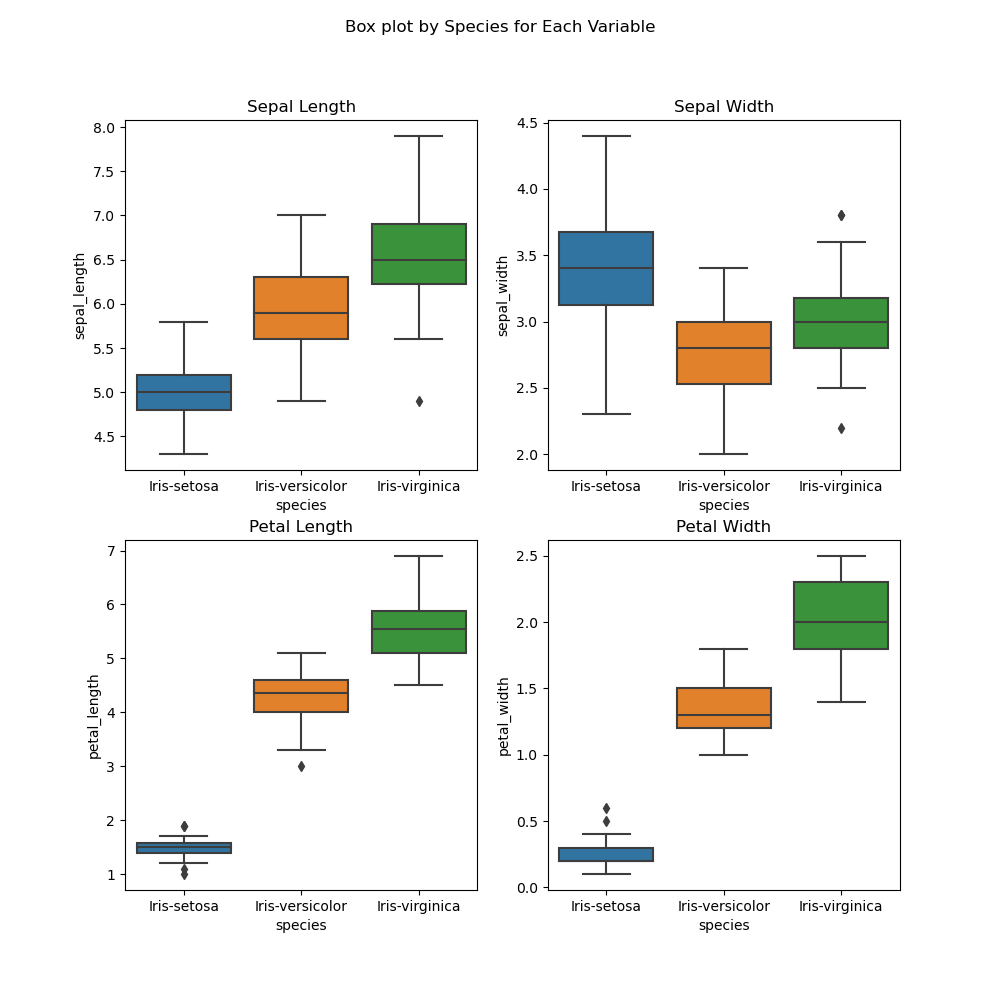
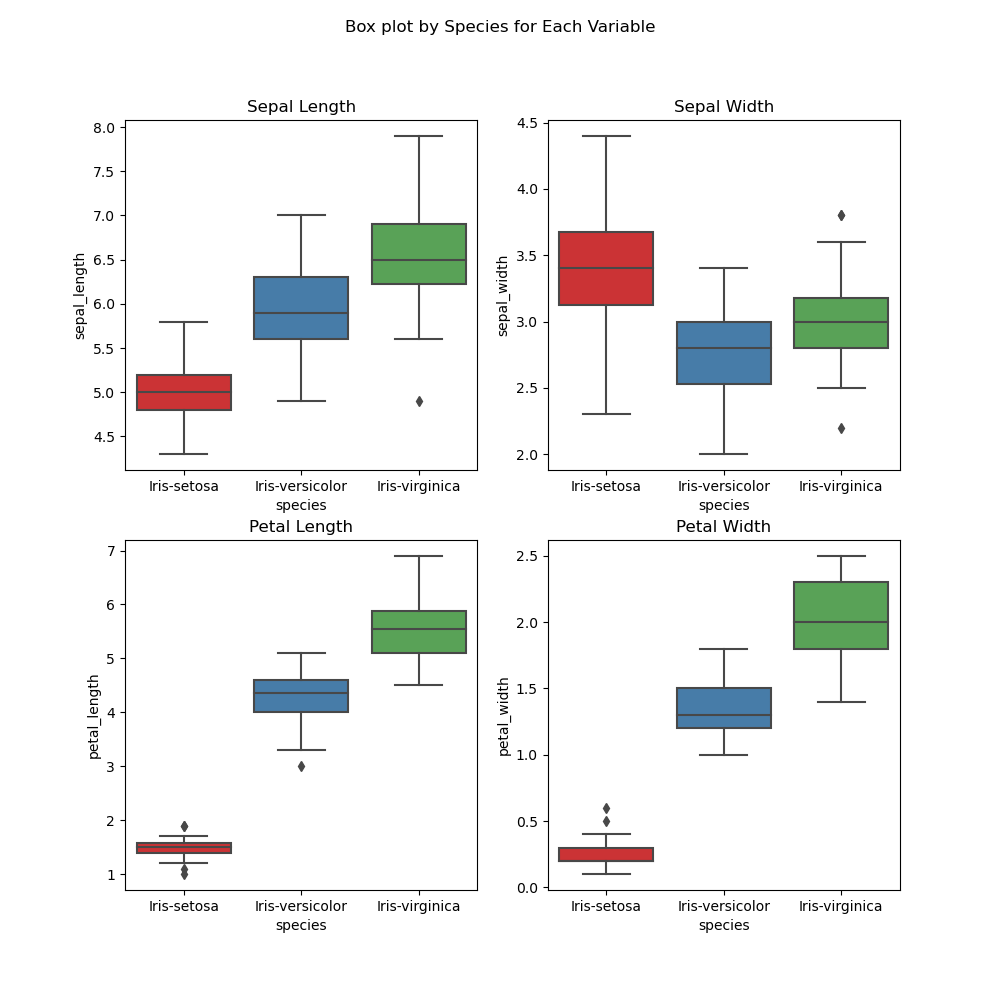
change seaborn palette

diff --git a/analysis.py b/analysis.py
@@ -63,12 +63,14 @@ with open('analysis.txt', 'a') as f:
     f.write(versicolor_summary)
     f.write(virginica_summary)
 
+sns.set_palette("Set1")
+
 # Comparing summary statistics across the three species.
 fig, axes = plt.subplots(2,2, figsize = (10, 10))
 sns.boxplot(ax = axes[0, 0], x = 'species', y = 'sepal_length', data = iris)
-sns.boxplot(ax = axes[0, 1], x = iris['species'], y= iris['sepal_width'])
-sns.boxplot(ax = axes[1, 0], x = iris['species'], y = iris['petal_length'])
-sns.boxplot(ax = axes[1, 1], x = iris['species'], y = iris['petal_width'])
+sns.boxplot(ax = axes[0, 1], x = 'species', y= 'sepal_width', data = iris)
+sns.boxplot(ax = axes[1, 0], x = 'species', y = 'petal_length', data = iris)
+sns.boxplot(ax = axes[1, 1], x = 'species', y = 'petal_width', data = iris)
 plt.suptitle('Box plot by Species for Each Variable')
 axes[0,0].set_title('Sepal Length')
 axes[0,1].set_title('Sepal Width')
@@ -80,14 +82,17 @@ plt.close()
 #### Histogram #####
 
 # Save a histogram of each variable to png files
-for col in iris:
-    sns.set_palette("Set1")
-    sns.histplot(x = col, data = iris, hue = 'species')
-    plt.title(f"Histogram of {col.title().replace('_', ' ')}")
-    plt.xlabel(f"{col.replace('_', ' ')}")
-    plt.savefig(f'C:\\Users\\Martin\\Desktop\\pands\\pands-project\\plots\\Histogram_of_{col}.png')
-    #plt.show()
-    plt.close()
+def plot_hist(df):
+    for col in df:
+        #sns.set_palette("Set1")
+        sns.histplot(x = col, data = df, hue = 'species')
+        plt.title(f"Histogram of {col.title().replace('_', ' ')}")
+        plt.xlabel(f"{col.replace('_', ' ')}")
+        plt.savefig(f'C:\\Users\\Martin\\Desktop\\pands\\pands-project\\plots\\Histogram_of_{col}.png')
+        #plt.show()
+        plt.close()
+
+plot_hist(iris)
 
 #### Scatter plot of each pair of variables
 fig, ax = plt.subplots()

diff --git a/plots.py b/plots.py
@@ -1,0 +1,11 @@
+
+
+def plot_hist(df):
+    for col in df:
+        sns.histplot(x = col, data = df, hue = 'species')
+        plt.title(f"Histogram of {col.title().replace('_', ' ')}")
+        plt.xlabel(f"{col.replace('_', ' ')}")
+        plt.savefig(f'C:\\Users\\Martin\\Desktop\\pands\\pands-project\\plots\\Histogram_of_{col}.png')
+        #plt.show()
+        plt.close()
+

diff --git a/README.md b/README.md
@@ -73,19 +73,12 @@ https://www.integratedots.com/wp-content/uploads/2019/06/iris_petal-sepal-e15602
 
 ## Histogram of each variable saved to png files
 
+
 |||
 |---|---|
 |![Histogram of Sepal Length](https://github.com/IreneKilgannon/pands-project/blob/main/plots/Histogram_of_sepal_length.png)|![Histogram of Sepal Width](https://github.com/IreneKilgannon/pands-project/blob/main/plots/Histogram_of_sepal_width.png)|
 |![Histogram of Petal Length](https://github.com/IreneKilgannon/pands-project/blob/main/plots/Histogram_of_petal_length.png)|![Histogram of Petal Width](https://github.com/IreneKilgannon/pands-project/blob/main/plots/Histogram_of_petal_width.png)|
 
-
-![Sepal Width](https://github.com/IreneKilgannon/pands-project/blob/main/Sepal%20Width%20(cm).png)
-
-![Sepal length](https://github.com/IreneKilgannon/pands-project/blob/main/Sepal%20Length%20(cm).png)
-
-![Petal Length](https://github.com/IreneKilgannon/pands-project/blob/main/Petal%20Length%20(cm).png)
-
-![Petal Width](https://github.com/IreneKilgannon/pands-project/blob/main/Petal%20Length%20(cm).png)
 
 
 __Discussion of histogram__
